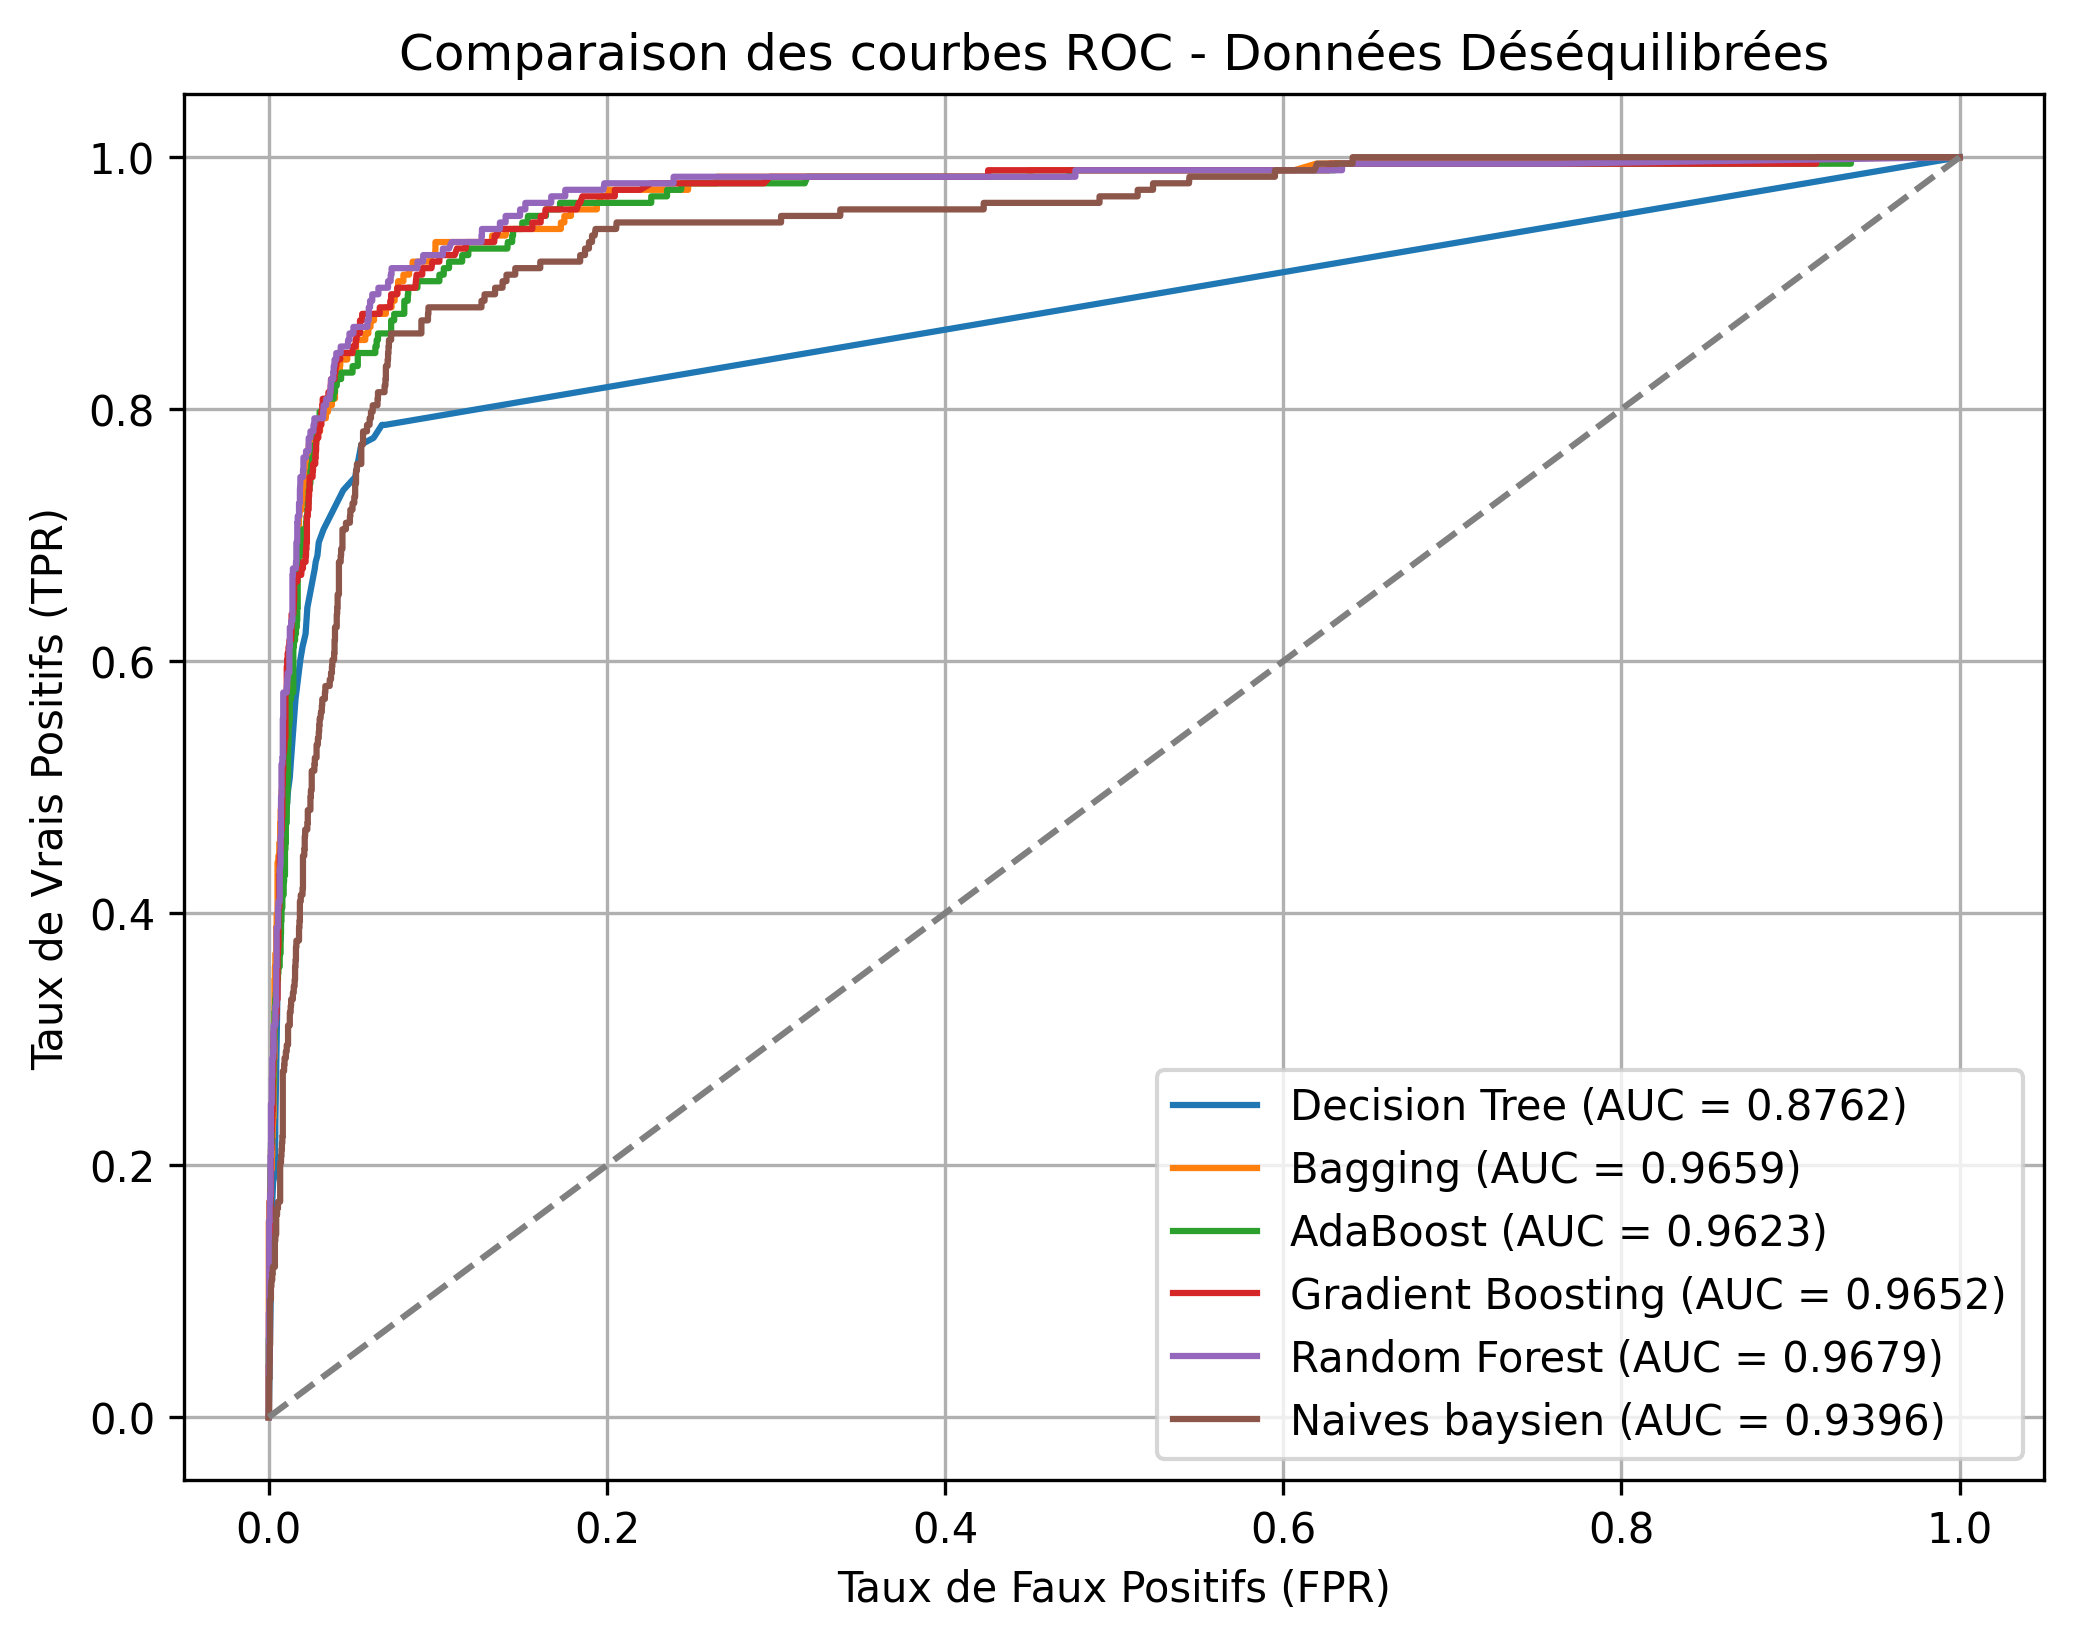
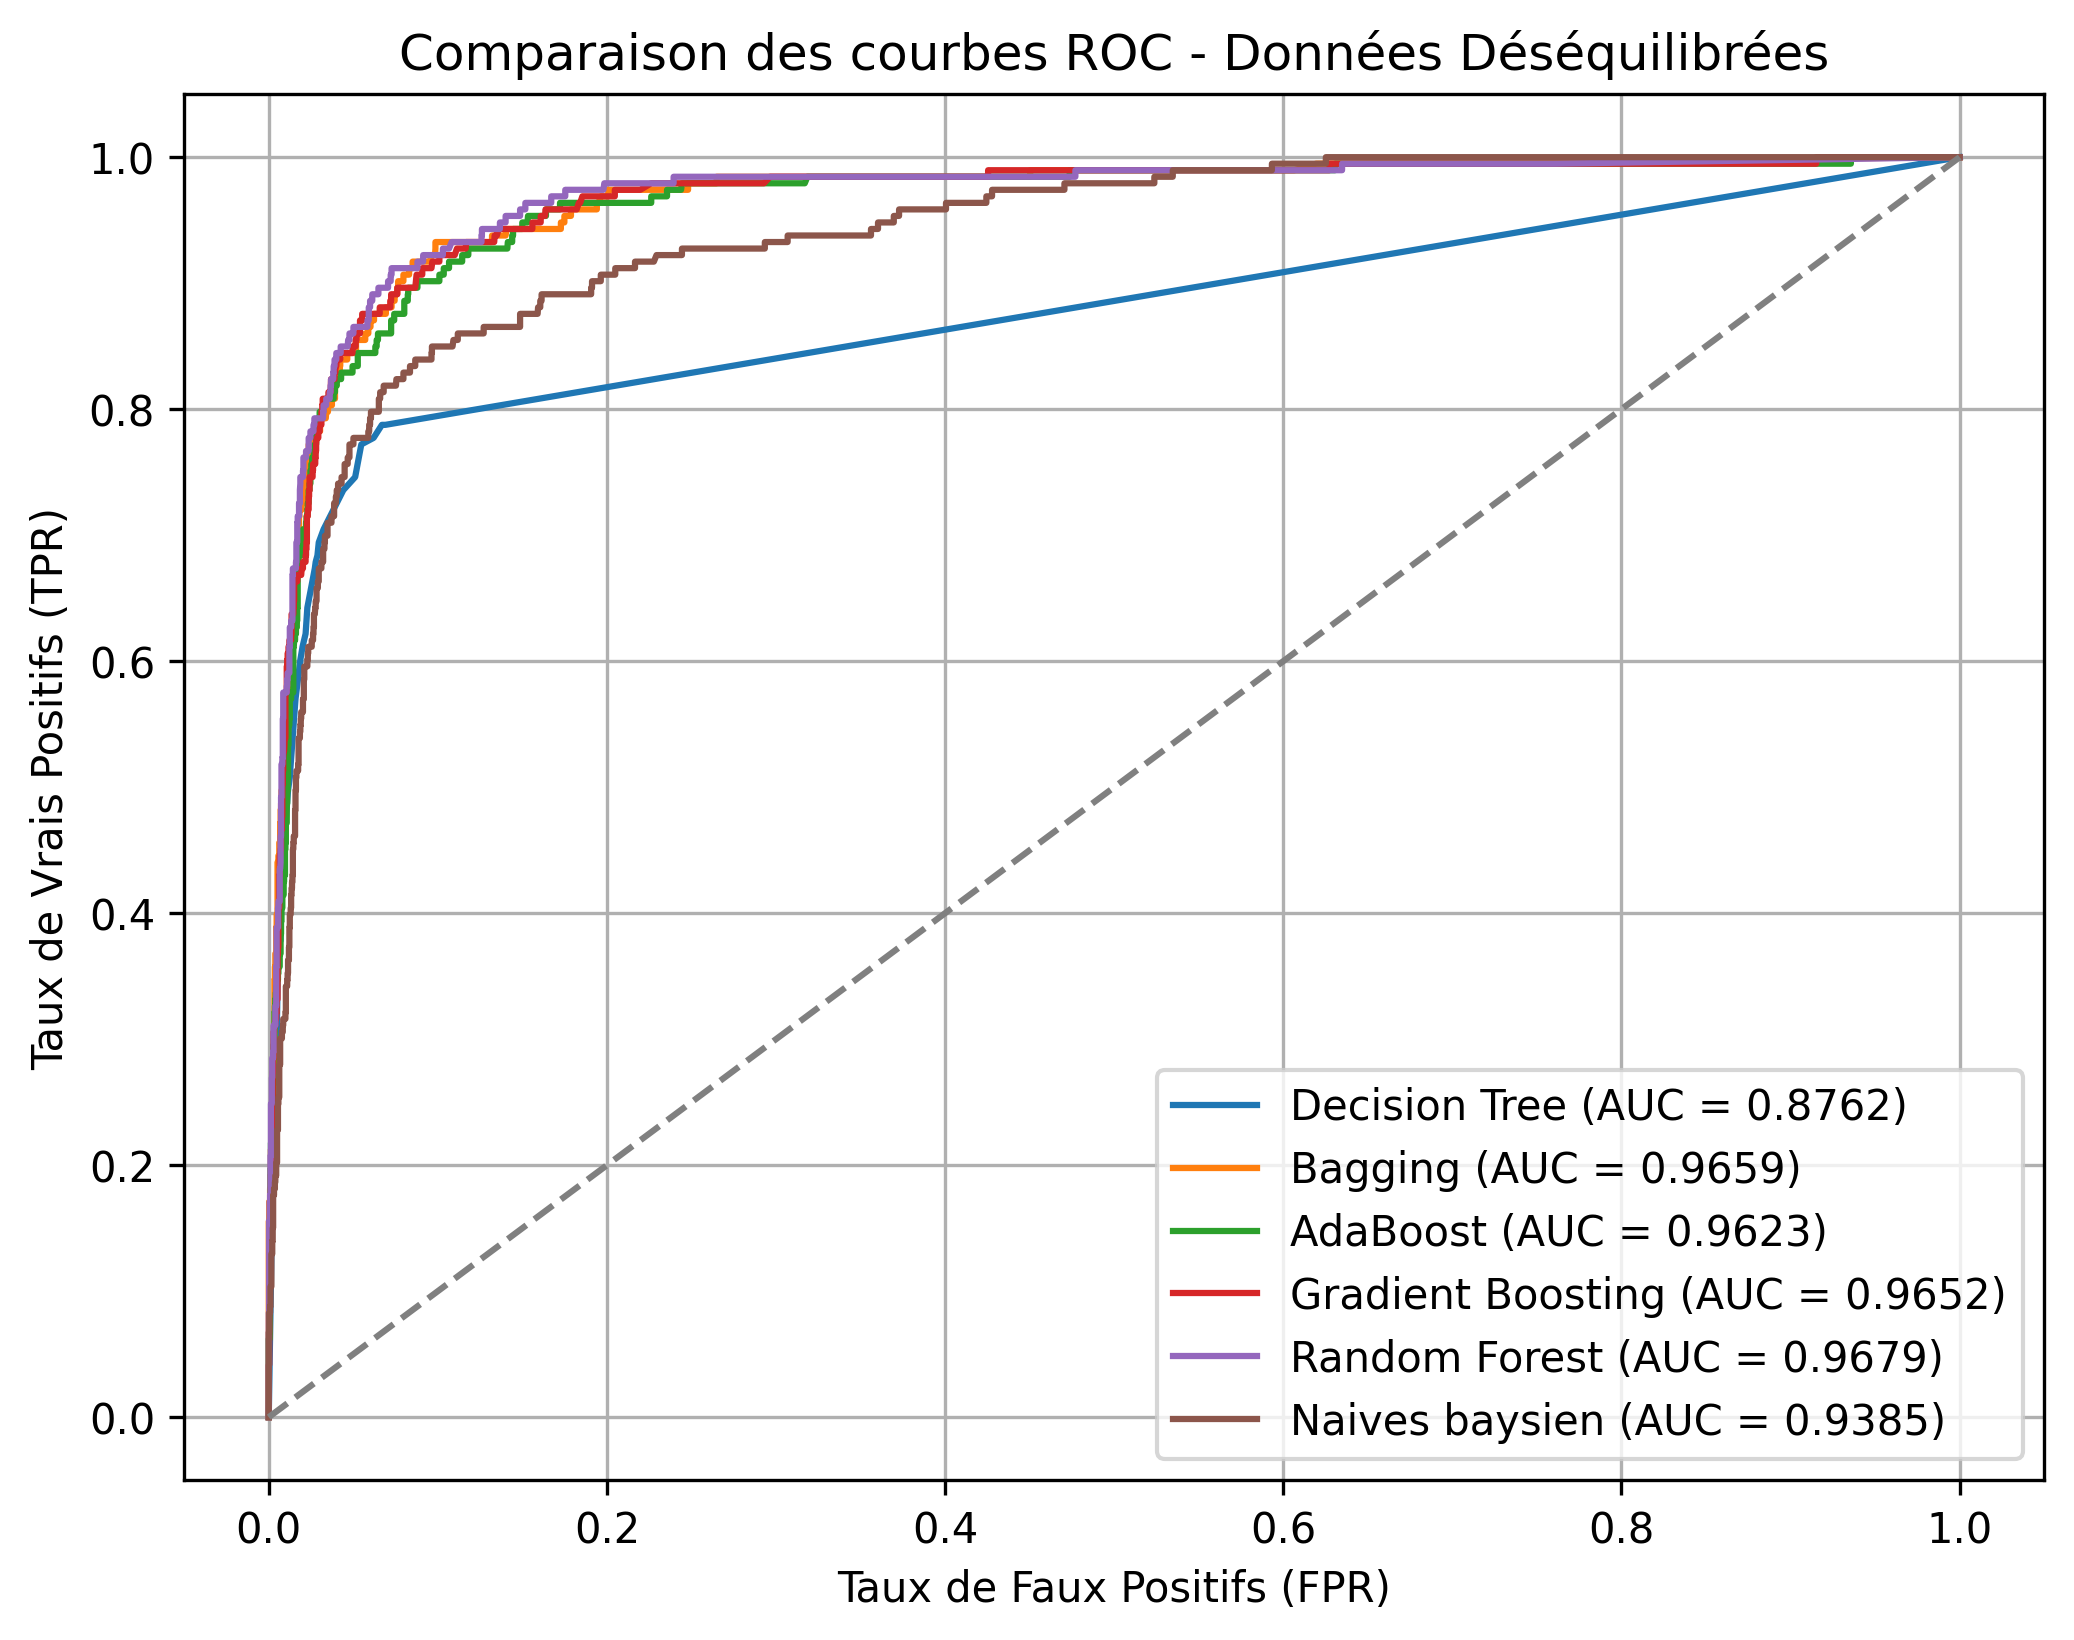
ajustement des parametres de bayesien naive

diff --git a/config.py b/config.py
@@ -42,7 +42,7 @@ models_unbalance = {
                                                 bootstrap=True,
                                                 random_state=42
                                                  ),
-        "Naives baysien":  GaussianNB()
-        # "Naives baysien":  MultinomialNB(alpha=0.1, fit_prior=False)
+        # "Naives baysien":  GaussianNB()
+        "Naives baysien":  MultinomialNB(alpha=0.1, fit_prior=False)
         
         }
